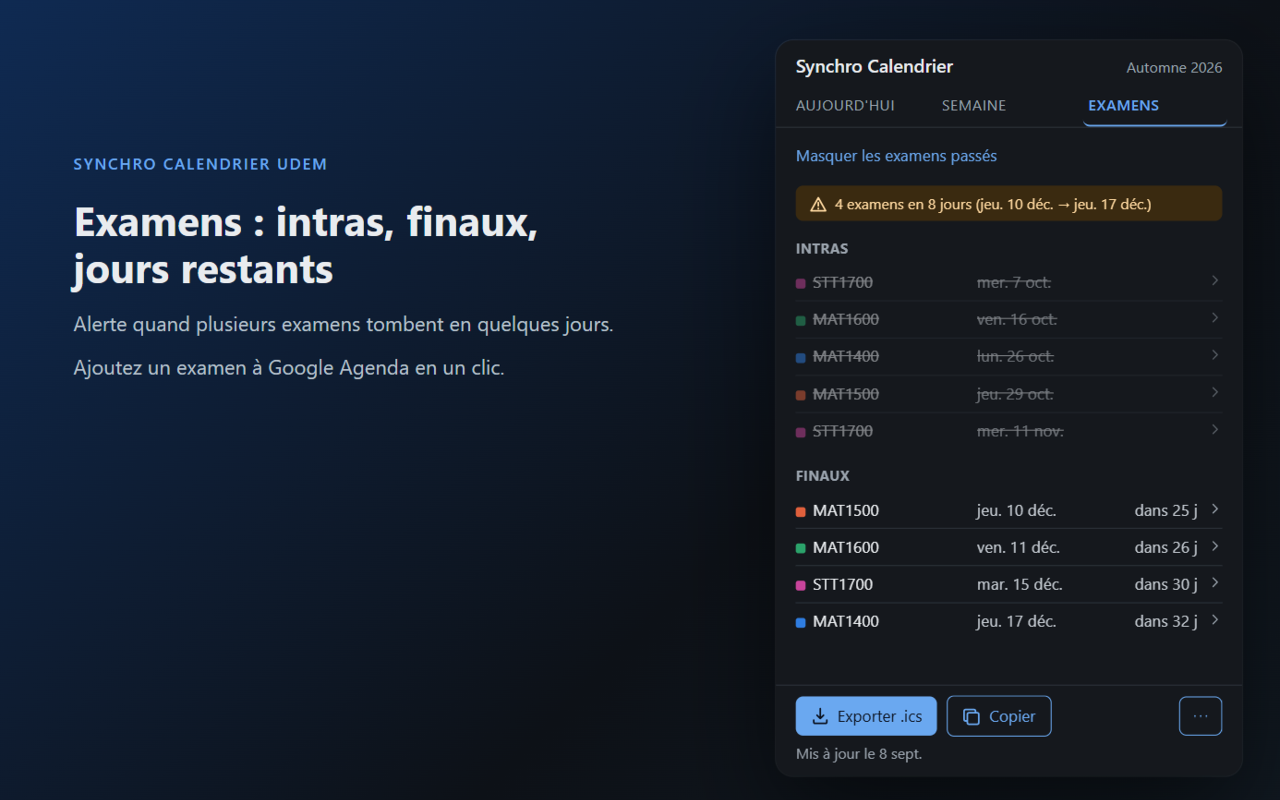
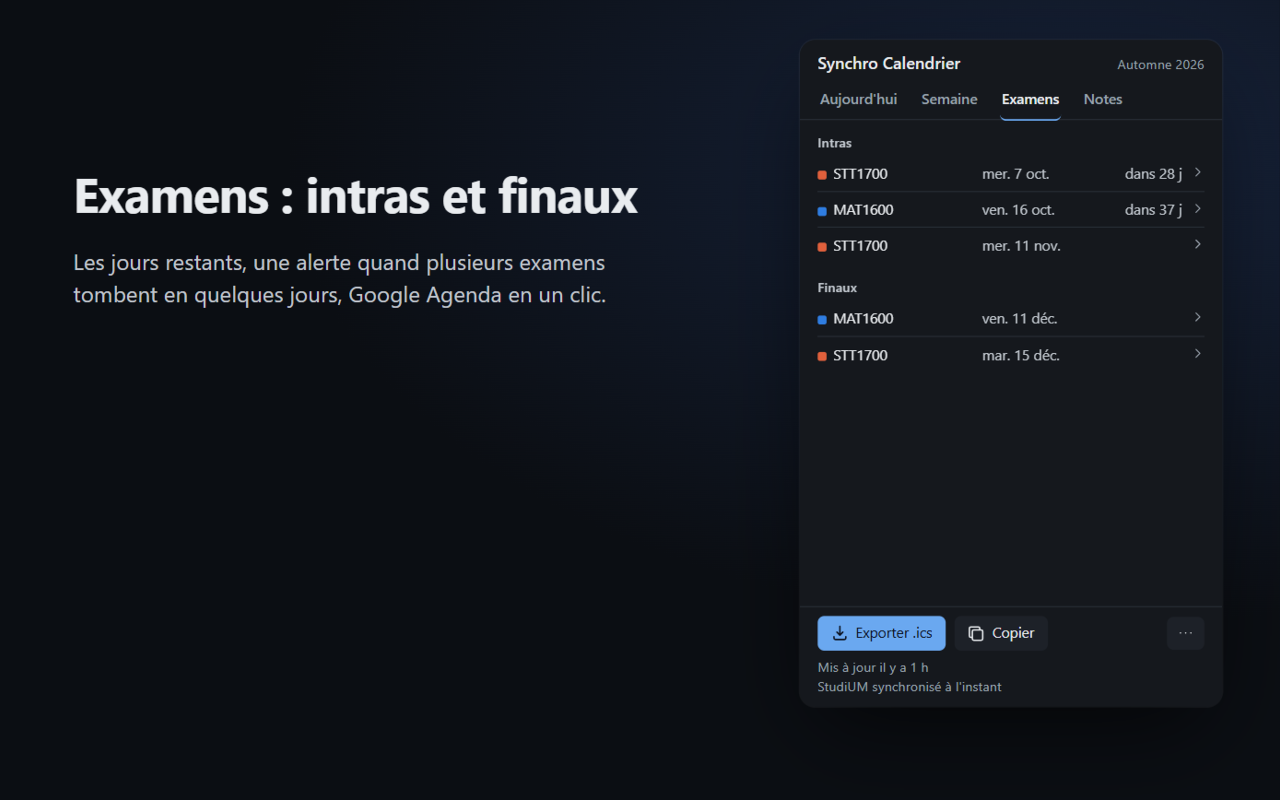
phase13: revue pré-soumission — justification StudiUM, phrase Synchro corrigée (requêtes réseau), objectif unique réécrit, note de données complète (échéances, sites, notes opt-in), « non officiel » dans le résumé et le manifest, URL de politique rendue, six captures refaites sur le build 0.3.0 ; éc
Claude-Session: https://claude.ai/code/session_01BF77q4X8dPftuSMtDwKhx4

diff --git a/src/popup/popup.ts b/src/popup/popup.ts
@@ -485,7 +485,11 @@ function deadlineRow(d: Deadline, view: View, now: Now, key: string): HTMLElemen
   title.append(document.createTextNode(d.title), el("span", "kind", ` · ${KIND_LABEL[d.kind]}`));
   const chevron = el("span", "chevron");
   chevron.append(icon("right", 12));
-  row.append(doneCheckbox(d, view), title, el("span", "when", done ? "fait" : dueLabel(d, now)), chevron);
+  // Titre et échéance empilés : côte à côte, un titre long et « ouvre aujourd'hui · avant jeu. 23:59 »
+  // se battaient pour la largeur et le titre passait sur quatre lignes.
+  const lines = el("div", "lines");
+  lines.append(title, el("div", "when", done ? "fait" : dueLabel(d, now)));
+  row.append(doneCheckbox(d, view), lines, chevron);
   row.addEventListener("click", () => toggleExpanded(key, view));
   return row;
 }

diff --git a/src/popup/popup.css b/src/popup/popup.css
@@ -207,7 +207,9 @@ a { color: var(--accent); }
 .check::before { content: ""; width: 8px; height: 8px; border-radius: 2px; background: var(--accent); transform: scale(0); transition: transform 90ms; }
 .check:checked { border-color: var(--accent); }
 .check:checked::before { transform: scale(1); }
-.dl-row { grid-template-columns: 15px 1fr auto 12px; }
+.dl-row { grid-template-columns: 15px 1fr 12px; align-items: center; }
+.dl-row .lines { min-width: 0; }
+.dl-row .lines .when { margin-top: 2px; }
 .dl-row.status-done, .week-item.deadline.done { opacity: 0.55; }
 .dl-row.status-done .title, .week-item.deadline.done .label { text-decoration: line-through; }
 .week-item.deadline { grid-template-columns: 15px 78px 1fr auto 12px; }

diff --git a/docs/reviews/REVUE-PRE-SOUMISSION-2026-09-10.md b/docs/reviews/REVUE-PRE-SOUMISSION-2026-09-10.md
@@ -1,0 +1,184 @@
+# Revue pré-soumission — Synchro Calendrier UdeM 0.3.0
+
+**Date :** 2026-09-10 · **Portée :** repérage complet avant dépôt au Chrome Web Store.
+Lecture seule, aucun fichier du projet modifié.
+
+> **Note de méthode.** Le shell sur ta machine n'a pas pu monter le dossier cette fois
+> (`no Plan9 drive shares mounted`), donc **je n'ai pas relancé `npm test` ni `npm run build`**.
+> Tout le reste vient de la lecture directe des fichiers. Relance les deux avant de zipper.
+
+---
+
+## 1. Ce qui a changé depuis ma revue du 9 septembre
+
+Tu as construit l'intégration StudiUM entre-temps. Ça change complètement le dossier de
+soumission — ce n'est plus la même extension du point de vue d'un examinateur.
+
+| | 9 sept (0.2.0) | 10 sept (0.3.0) |
+|---|---|---|
+| Hôtes | Synchro | Synchro **+ studium.umontreal.ca** |
+| Requêtes réseau | **aucune** | **2 `fetch`** vers StudiUM |
+| Données lues | horaire, examens | + échéances, sites de cours, **notes et moyennes de groupe** |
+| `popup.ts` | 26 ko | 47 ko |
+| Modules ajoutés | — | `content/studium.ts`, `core/studium.ts`, `core/deadlines.ts`, `core/grades.ts` |
+
+**Les défauts UI de mon rapport du 9 sont corrigés** : `.week-item` passe à 78 px,
+`.preview-row` à 72 px, avec `white-space: nowrap` sur les deux. Plus de retour à la ligne
+dans les colonnes d'heure.
+
+---
+
+## 2. Bloquants — à régler avant de soumettre
+
+### B1. Aucune justification pour l'autorisation d'hôte StudiUM
+
+`docs/STORE.md` justifie `storage`, `alarms` et `https://*.synchro.umontreal.ca/*`. Il n'y a
+**rien** pour `https://studium.umontreal.ca/*`, qui est pourtant la permission la plus large
+et la plus sensible du lot. Le champ est obligatoire, un par autorisation.
+
+### B2. Une justification est devenue fausse
+
+La justification Synchro se termine par :
+
+> « Aucun autre domaine n'est demandé et **aucune requête réseau n'est émise**. »
+
+C'était vrai en 0.2.0. Ça ne l'est plus : `src/content/studium.ts` émet deux `fetch`
+(lignes 471 et 483), vers `/lib/ajax/service.php` et `/grade/report/user/index.php`.
+
+Une déclaration inexacte dans un champ de justification n'est pas une coquille — c'est un
+motif de rejet, et de retrait après publication. **À corriger en priorité absolue.**
+
+### B3. La phrase d'objectif unique ne décrit plus l'extension
+
+Elle dit aujourd'hui :
+
+> « Lire l'horaire de cours et d'examens affiché dans le Centre étudiant […] pour le
+> convertir en fichier calendrier .ics et en signaler les conflits. »
+
+Elle ne mentionne ni les échéances StudiUM, ni les notes. Un examinateur qui compare cette
+phrase au comportement observé voit trois fonctions là où la fiche en annonce une.
+
+**C'est le principal risque de rejet de tout le dossier** — voir §3.
+
+### B4. La déclaration d'usage des données est incomplète
+
+Le tableau reste défendable : « Contenu de sites web = Oui » couvre techniquement tout, et
+le raisonnement cité (obligation de déclarer même le traitement purement local) est juste.
+
+Mais la **note à joindre** ne parle que de l'horaire Synchro. Elle doit maintenant nommer :
+
+- les échéances StudiUM (quiz, devoirs) et la liste des sites de cours ;
+- **les notes, valeurs possibles, pourcentages et moyennes de groupe**, en précisant que
+  c'est une option désactivée par défaut.
+
+Omettre les notes dans une déclaration de données, c'est exactement le genre d'écart qui se
+paie cher s'il est découvert après publication.
+
+### B5. Les captures d'écran montrent la version d'avant
+
+Les cinq PNG de `docs/store/` datent du 9 septembre en soirée ; le code StudiUM a été écrit
+le 10 en après-midi. **Aucune ne montre les échéances ni les notes** — alors que la
+description détaillée de `STORE.md` les met en avant sur deux puces.
+
+Le format, lui, est bon : `1280 × 800`, PNG, 505–555 ko chacune. Conforme. Il faut juste les
+refaire.
+
+---
+
+## 3. Le vrai risque : l'objectif unique
+
+La règle de Google est qu'une extension doit avoir « un objectif unique, étroit et facile à
+comprendre ». La tienne fait maintenant trois choses visibles : exporter un horaire en ICS,
+afficher des échéances StudiUM, et afficher des notes.
+
+**Ça reste défendable**, mais seulement si tu le formules comme un seul but plutôt que comme
+un catalogue. Quelque chose comme : *rassembler en un seul endroit l'échéancier universitaire
+d'un étudiant de l'UdeM — séances, examens, remises — à partir des pages qu'il a lui-même
+ouvertes, et l'exporter en calendrier.* L'export ICS, les échéances et les notes deviennent
+alors trois faces du même objet, pas trois produits.
+
+Le maillon faible de cet argument, c'est **les notes** : un carnet de notes n'est pas un
+échéancier. Si un examinateur tique quelque part, ce sera là.
+
+Deux options honnêtes :
+
+| Option | Pour | Contre |
+|---|---|---|
+| **Soumettre avec les notes** | fonctionnalité déjà écrite et testée | rallonge la revue, risque de retour |
+| **Soumettre 0.3 sans les notes**, les livrer en 0.4 | objectif unique limpide, première revue rapide | il faut retirer proprement l'option |
+
+Une première soumission qui passe du premier coup vaut cher : les suivantes sont revues plus
+vite. À toi de voir, mais je pencherais pour la seconde.
+
+---
+
+## 4. Le nom de l'extension — angle mort
+
+**« Synchro Calendrier UdeM »** met une marque d'université dans le nom, et « Synchro » est
+le nom du système de l'UdeM. La politique du store interdit d'utiliser la marque d'un tiers
+d'une manière qui suggère une affiliation ou un endossement.
+
+Ta description dit bien « sans lien avec l'Université de Montréal », ce qui aide beaucoup.
+Mais c'est le **nom** qui est lu en premier, et il n'a pas de mention.
+
+Ce n'est pas un rejet automatique — beaucoup d'extensions non officielles nomment leur cible.
+Mais c'est un risque réel, et c'est aussi le genre de chose qui attire une plainte de
+l'université plus tard. Deux atténuations peu coûteuses :
+
+- ajouter « non officiel » dans le résumé de 132 caractères, pas seulement dans le corps ;
+- publier sous **ClientSide Labs** comme éditeur, ce qui éloigne visuellement la marque UdeM
+  de l'identité de l'auteur.
+
+---
+
+## 5. Ce qui est propre — et c'est beaucoup
+
+| Point | État |
+|---|---|
+| Manifest V3 | ✅ |
+| **Aucun code distant** | ✅ zéro `eval`, `new Function`, `innerHTML`, `insertAdjacentHTML`, `document.write` — grep vide sur tout `src/` |
+| Réseau | ✅ exactement 2 `fetch`, tous deux vers `studium.umontreal.ca`, aucun tiers, aucune télémétrie |
+| Option Notes réellement optionnelle | ✅ vérifié dans le code : tout est verrouillé derrière `GRADES_OPT_IN_KEY`, la politique dit vrai |
+| Nom | ✅ 23 / 75 caractères |
+| Description manifest | ✅ 124 / 132 caractères |
+| Résumé de la fiche | ✅ 123 / 132 |
+| Icônes | ✅ 16, 32, 48, 128 |
+| Captures | ✅ format 1280 × 800 conforme (contenu périmé, voir B5) |
+| Dépôt | ✅ public, MIT, `PRIVACY.md` accessible (HTTP 200) |
+| Paquet | ✅ script déterministe, `dist/` seul, manifest à la racine, aucun sourcemap |
+| Permissions minimales | ✅ pas de `tabs`, ni `scripting`, ni `downloads` — et `STORE.md` explique déjà pourquoi |
+
+L'absence totale de code distant et la minimalité des permissions sont les deux choses que
+les examinateurs regardent en premier. Sur ces deux points, le dossier est solide.
+
+---
+
+## 6. Détails à corriger tant qu'on y est
+
+- **Description du manifest périmée.** Elle ne parle que de Synchro alors que l'extension
+  lit StudiUM. C'est ce texte qui s'affiche dans `chrome://extensions`, pas celui de la fiche.
+  Il reste 8 caractères de marge sur 132 — donc il faut réécrire, pas rallonger.
+- **URL de politique de confidentialité.** Le lien brut GitHub répond 200, mais c'est du
+  markdown non rendu. `has_pages: false` sur le dépôt : soit tu actives GitHub Pages, soit tu
+  pointes vers la page rendue (`/blob/main/docs/PRIVACY.md`), plus lisible pour un examinateur.
+- **Pas de `default_locale`.** L'extension est monolingue française et l'assume ; pense juste
+  à déclarer « français (Canada) » comme langue de la fiche.
+- **La synchro des notes interroge le rapport de chaque site de cours** — donc plusieurs
+  requêtes par synchronisation. À dire dans la justification StudiUM plutôt que de laisser
+  l'examinateur le découvrir.
+- **`npm test` et `npm run build` non rejoués** cette session. À faire avant `npm run package`.
+
+---
+
+## 7. Ordre de marche suggéré
+
+1. Corriger **B2** (la phrase fausse) — non négociable.
+2. Décider : avec ou sans les notes pour la première soumission (§3).
+3. Réécrire l'objectif unique (**B3**) et la description du manifest selon cette décision.
+4. Ajouter la justification StudiUM (**B1**) et compléter la note de données (**B4**).
+5. Refaire les cinq captures sur la version réelle (**B5**), plus une sixième montrant les
+   échéances si tu les gardes.
+6. Ajouter « non officiel » au résumé (§4).
+7. `npm test`, `npm run build`, `npm run package`, puis dépôt.
+
+Les points 1 à 4 sont de l'écriture, pas du code. Le point 5 est une demi-heure.

diff --git a/docs/STORE.md b/docs/STORE.md
@@ -17,10 +17,10 @@ _(limite 75 caractères — 23 utilisés)_
 ## Résumé (limite 132 caractères)
 
 ```
-Exportez l'horaire du Centre étudiant UdeM en calendrier .ics, repérez les conflits et comptez les jours avant vos examens.
+Non officiel. Horaire du Centre étudiant UdeM en .ics, examens, conflits, échéances et notes StudiUM, sans rien transmettre.
 ```
 
-_(123 caractères)_
+_(121 caractères)_
 
 ## Description détaillée
 
@@ -53,7 +53,7 @@ VIE PRIVÉE
 
 Aucune donnée n'est transmise. L'extension lit la page Synchro que vous avez ouverte vous-même, garde le résultat dans le stockage local de Chrome, et ne communique avec aucun serveur. Pas de compte à créer, pas de clé, pas de statistiques d'usage. Vous effacez tout depuis le popup ou en désinstallant l'extension.
 
-Elle ne lit ni votre mot de passe ni aucune page autre que votre horaire, vos examens et le calendrier de StudiUM. Vos notes ne sont lues que si vous activez l'option « Notes », et restent sur votre ordinateur.
+Elle ne lit ni votre mot de passe ni aucune page autre que votre horaire, vos examens et le calendrier de StudiUM. Vos notes ne sont lues que si vous activez l'option « Notes », et restent sur votre ordinateur. Extension non officielle, sans lien avec l'Université de Montréal.
 
 LIMITES CONNUES
 
@@ -77,8 +77,13 @@ exacte du store évolue : à confirmer dans la console au moment de la soumissio
 Le store demande une phrase décrivant la fonction unique de l'extension :
 
 ```
-Lire l'horaire de cours et d'examens affiché dans le Centre étudiant de l'Université de Montréal, sur la session de l'utilisateur, pour le convertir en fichier calendrier .ics et en signaler les conflits.
+Rassembler en un seul endroit l'échéancier universitaire d'un étudiant de l'Université de Montréal — séances, examens, quiz et remises, et sur option ses notes — à partir des pages Synchro et StudiUM qu'il a lui-même ouvertes, et l'exporter en calendrier .ics. Tout est lu et conservé dans le navigateur ; rien n'est transmis.
 ```
+
+Les échéances StudiUM, l'export .ics et l'onglet Notes sont trois faces du même objet
+(l'échéancier de l'étudiant), pas trois produits. Décision de l'utilisateur (2026-09-10) :
+soumettre avec les notes, en option désactivée par défaut ; si la revue tique là-dessus,
+on avisera.
 
 ## Justification des autorisations
 
@@ -99,7 +104,13 @@ Réveille le service worker toutes les 15 minutes pour recalculer le nombre de c
 ### Autorisation d'hôte `https://*.synchro.umontreal.ca/*`
 
 ```
-Seul domaine où l'horaire de l'étudiant est affiché. Le script de contenu s'y exécute pour lire le texte des pages « Centre étudiant » et « Votre horaire cours » déjà ouvertes par l'utilisateur, et en extraire les sigles, jours, heures, locaux et dates d'examen. Aucun autre domaine n'est demandé et aucune requête réseau n'est émise.
+Seul domaine où l'horaire de l'étudiant est affiché. Le script de contenu s'y exécute pour lire le texte des pages « Centre étudiant » et « Votre horaire cours » déjà ouvertes par l'utilisateur, et en extraire les sigles, jours, heures, locaux et dates d'examen. Aucune requête réseau n'est émise vers ce domaine : seule la page déjà affichée est lue.
+```
+
+### Autorisation d'hôte `https://studium.umontreal.ca/*`
+
+```
+Plateforme de cours de l'Université (Moodle) où sont publiés les quiz, remises et notes de l'étudiant. Le script de contenu s'exécute sur les pages StudiUM que l'utilisateur ouvre lui-même et interroge, avec sa session déjà ouverte et sans jeton, l'API de calendrier interne de Moodle (POST vers /lib/ajax/service.php : cinq vues mensuelles et la liste des sites de cours, au plus une fois par 30 minutes) pour en tirer les échéances. Si l'utilisateur active l'option « Notes » (désactivée par défaut), le script lit aussi le rapport de notes de chacun de ses sites de cours (GET vers /grade/report/user/index.php, une requête par site, dans la même synchronisation). Toutes ces requêtes vont vers studium.umontreal.ca uniquement, avec les identifiants de session du navigateur ; rien n'est transmis ailleurs et aucune donnée n'est stockée hors de chrome.storage.local.
 ```
 
 ### Absence de `tabs`, `scripting` et `downloads`
@@ -134,12 +145,19 @@ d'horaire de Synchro (« website content »), donc la case se coche, et le champ
 justification explique le traitement local. Une case à « non » serait une déclaration
 inexacte, motif de rejet ou de retrait.
 
-**Note à joindre.** L'extension lit le contenu de la page « Votre horaire cours » (et du
-résumé du Centre étudiant) de Synchro, ouverte par l'utilisateur lui-même : sigles, sections,
-jours, heures, locaux, dates de séances et d'examens. Ce contenu est conservé uniquement dans
-`chrome.storage.local`, sur l'appareil de l'utilisateur, pour l'affichage du popup et la
-génération locale du fichier .ics. Rien n'est transmis à l'auteur ni à un tiers ; aucune
-requête réseau n'est émise. L'utilisateur efface tout depuis le popup ou en désinstallant.
+**Note à joindre.** L'extension lit, sur les pages que l'utilisateur ouvre lui-même :
+(1) le contenu de la page « Votre horaire cours » et du résumé du Centre étudiant de Synchro
+— sigles, sections, jours, heures, locaux, dates de séances et d'examens ; (2) le calendrier
+de StudiUM (Moodle) par son API interne, avec la session déjà ouverte — échéances des quiz et
+remises (nom, dates d'ouverture et de fermeture, lien vers l'activité) et la liste des sites
+de cours ; (3) seulement si l'utilisateur active l'option « Notes », désactivée par défaut,
+le rapport de notes de chacun de ses sites StudiUM — éléments d'évaluation, notes, valeurs
+possibles, pourcentages, moyennes du groupe. Tout est conservé uniquement dans
+`chrome.storage.local`, sur l'appareil, pour l'affichage du popup et la génération locale du
+fichier .ics. Les seules requêtes réseau vont vers studium.umontreal.ca, jamais vers l'auteur
+ni un tiers ; aucun jeton ni mot de passe n'est enregistré. L'utilisateur efface tout depuis
+le popup (« Effacer les données » ; désactiver « Notes » efface les notes) ou en
+désinstallant.
 
 Les trois certifications demandées sont toutes vraies et doivent être cochées :
 
@@ -147,8 +165,10 @@ Les trois certifications demandées sont toutes vraies et doivent être cochées
 - elles ne servent à aucune fin étrangère à la fonction principale de l'extension ;
 - elles ne servent ni à évaluer la solvabilité, ni à des fins de prêt.
 
-**URL de la politique de confidentialité** : lien vers `docs/PRIVACY.md` sur le dépôt
-public, à remplacer par une page hébergée si le dépôt devient privé.
+**URL de la politique de confidentialité** : la page rendue du dépôt public,
+https://github.com/AMoncade/synchro-calendrier/blob/main/docs/PRIVACY.md (le lien « raw »
+répond aussi, mais en markdown brut). À remplacer par une page hébergée si le dépôt devient
+privé.
 
 ## Captures d'écran
 
@@ -156,11 +176,17 @@ Captures **1280 × 800 px**, PNG, produites dans `docs/store/` par rendu du popu
 extension sur l'horaire réel A2026 anonymisé (fixtures), sans matricule ni nom. Ordre de
 téléversement, la première étant l'image mise en avant :
 
-1. **Aujourd'hui** — cours en cours, suivant, temps restant, local et pavillon.
-2. **Semaine** — liste par jour, congé nommé, locaux à droite.
-3. **Examens** — intras et finaux, jours restants, alerte de grappe.
+1. **Aujourd'hui** — cours en cours, suivant, temps restant, local et pavillon, échéances
+   des sept prochains jours.
+2. **Semaine** — liste par jour, congé nommé, quiz et remises StudiUM à cocher.
+3. **Examens** — intras et finaux, jours restants.
 4. **Détail d'un cours** — plages de dates, copier le local, carte du campus.
 5. **Demain** — bascule automatique en soirée.
+6. **Notes** — carnet StudiUM par cours avec la moyenne du groupe, option désactivée par
+   défaut.
+
+Refaites le 2026-09-10 sur le build 0.3.0 (gabarit : popup servi hors extension, `chrome.*`
+remplacé, horloge figée, capture 1152 × 720 mise au format par `npm run store-shots`).
 
 À produire ensuite à la main si souhaité : le résultat dans Google Agenda après import du
 `.ics` (vue semaine, un lundi férié vide).
